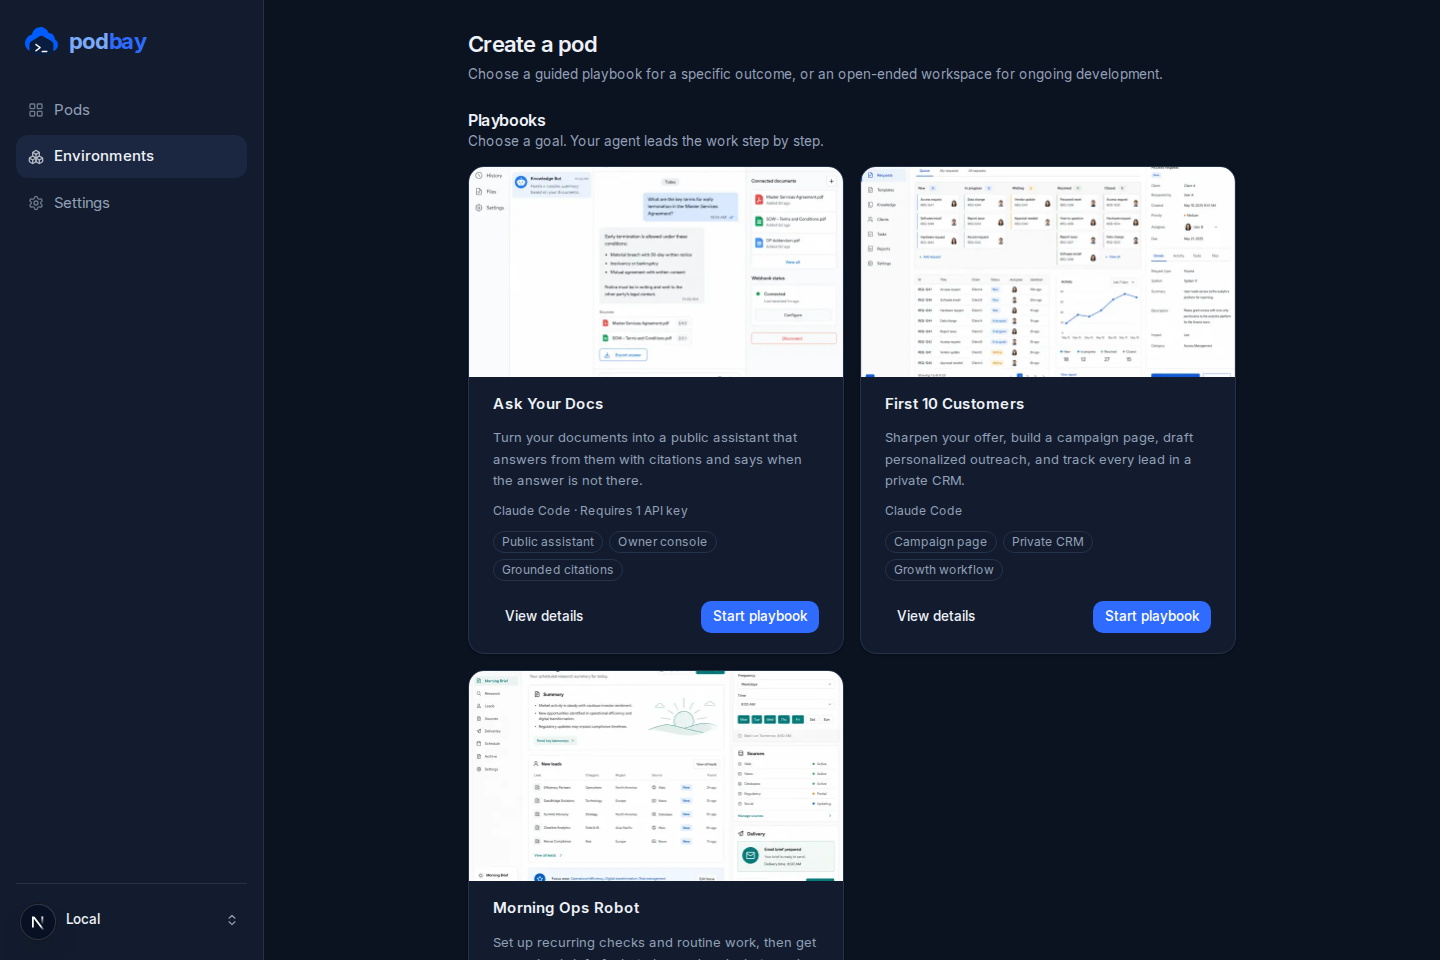
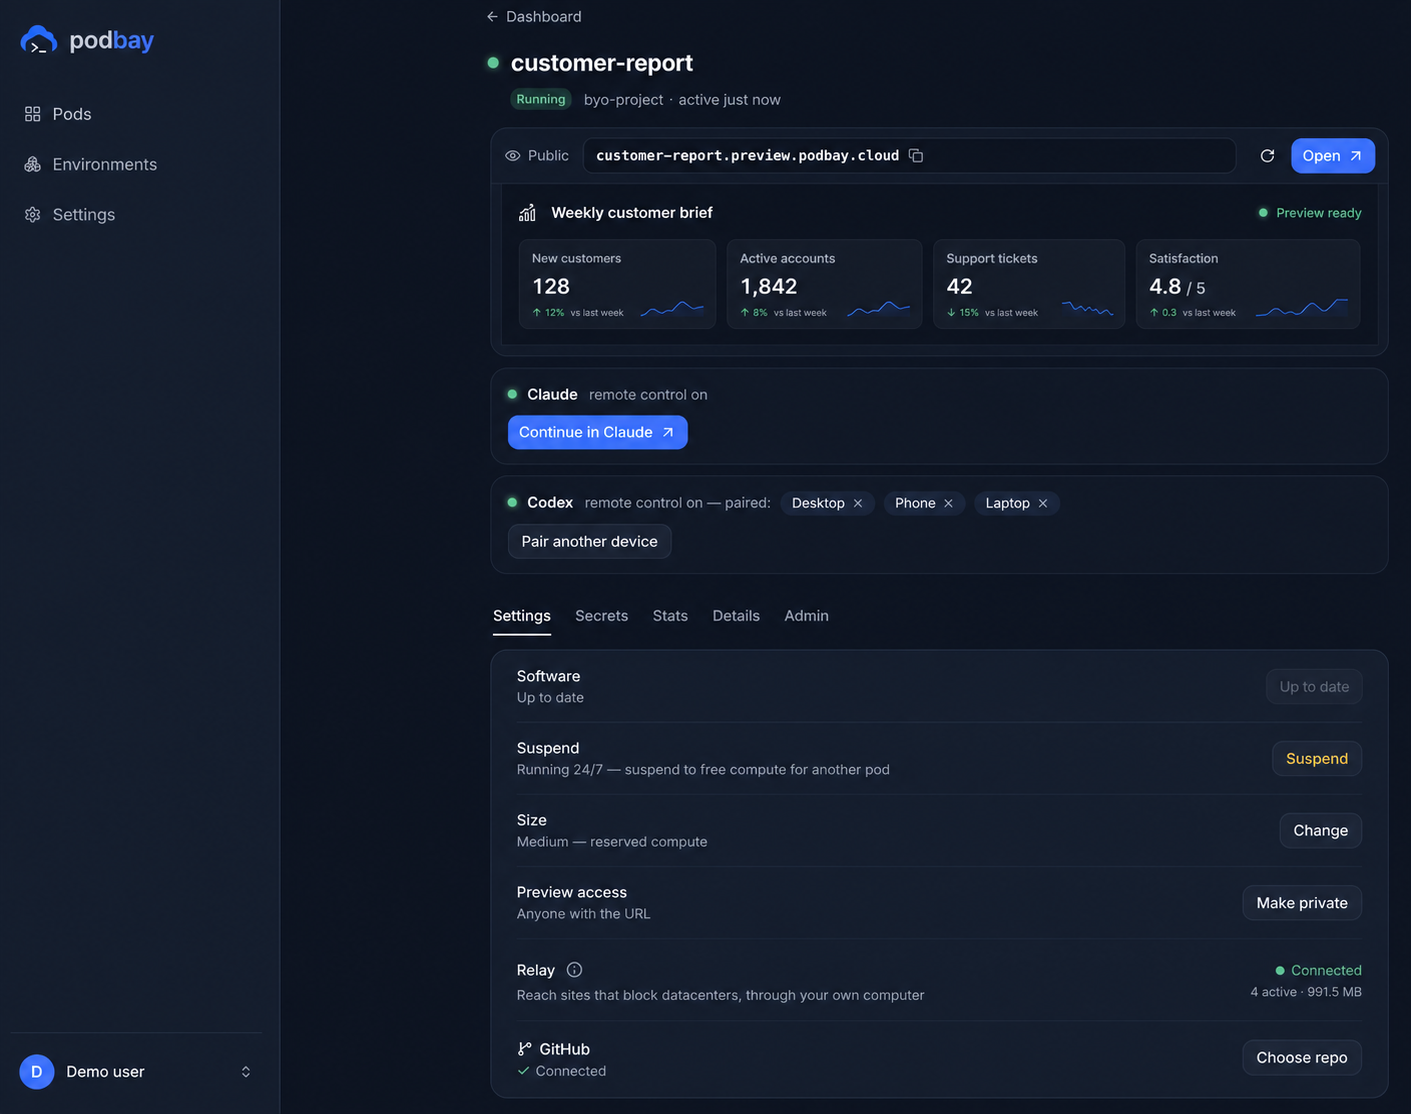
sync install artifacts from selfhost/

diff --git a/README.md b/README.md
@@ -7,7 +7,7 @@ data. Sign in once, then work from the official Claude apps on desktop or mobile
 the computer—and your work—running. It uses your existing Claude Pro or Max subscription, so you do
 not need an Anthropic API key or pay Podbay a separate agent-usage bill.
 
-![The Podbay self-hosted dashboard showing guided playbooks and development workspaces](assets/podbay-selfhost-dashboard.png)
+![A Podbay dashboard with a running workspace, live app preview, Claude Remote Control, and pod settings](assets/podbay-selfhost-dashboard.png)
 
 > [!IMPORTANT]
 > **Podbay Self-Hosted is an early alpha.** It is released for local experiments and early feedback,
